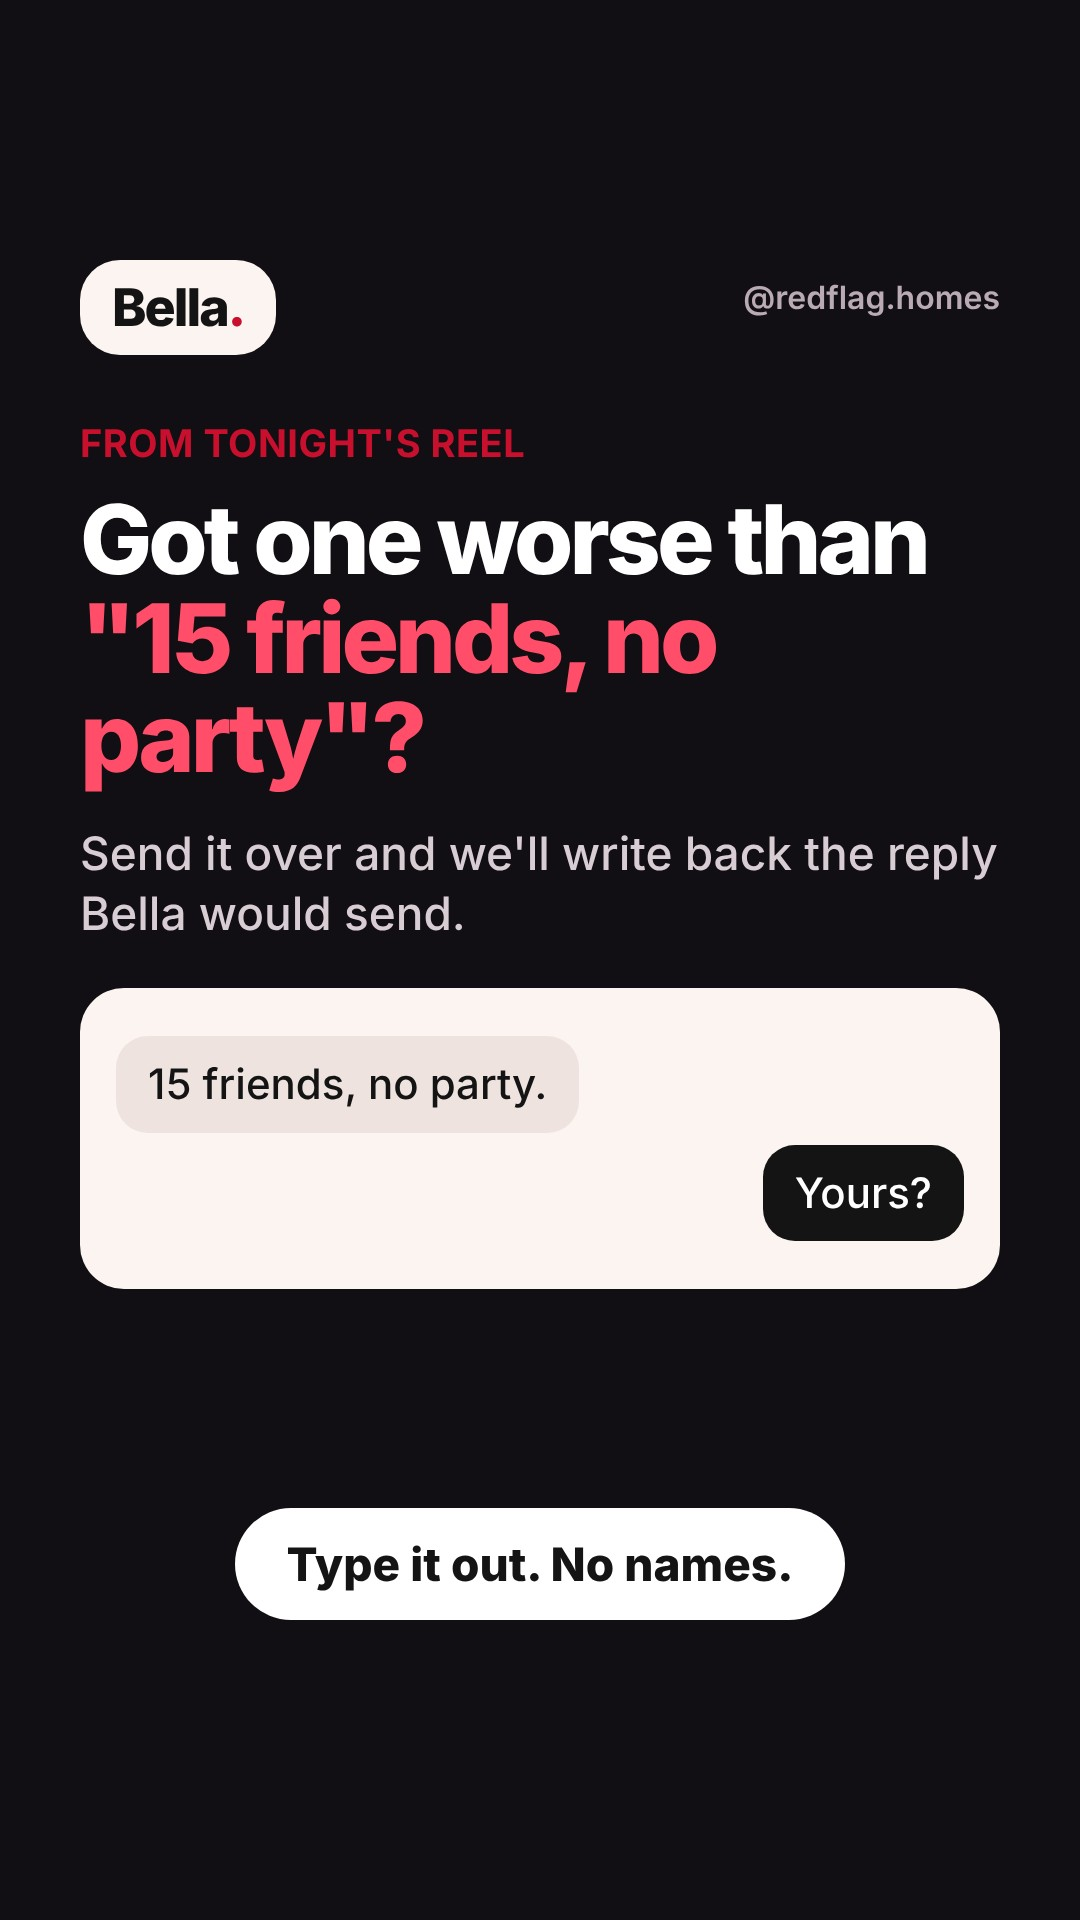
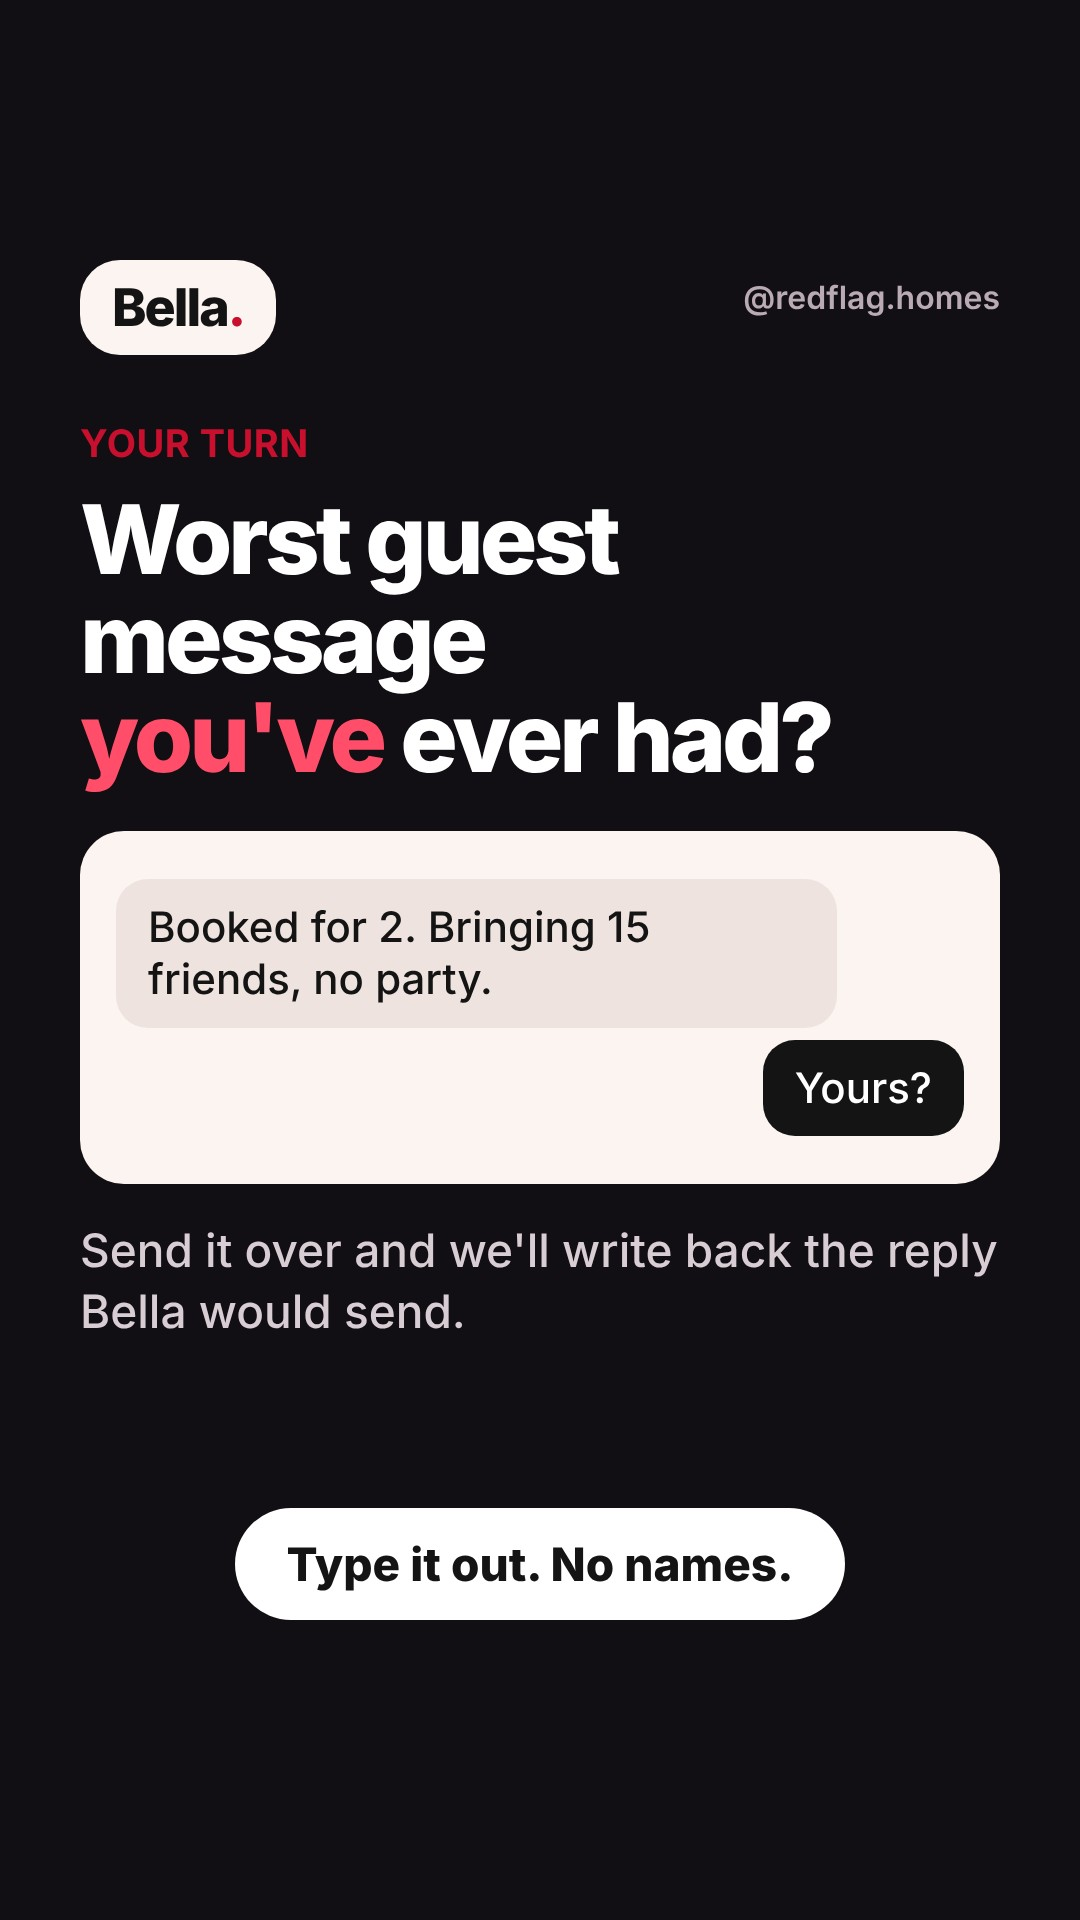
Switch Bella automation to stories only; rework 15 Oct story 3
Claude-Session: https://claude.ai/code/session_01Cw3U7aVfWG16eXRptv1S7z

Changed region(s): [[0.0611, 0.2188, 0.9472, 0.6875]]

diff --git a/marketing/bella/PLAN.md b/marketing/bella/PLAN.md
@@ -39,17 +39,17 @@ Avoid the couple and "red flag" relationship reels from September. They don't re
 
 ## Cadence
 
+**From 15 Oct 2026, the owner asked for stories only.** The automation posts no reels or carousels. Feed posts are made by hand.
+
 | Format | How often | When (IST) |
 |---|---|---|
-| Reel | 1 a day | 7:00–8:00 PM |
 | Stories | 3 a day | about 9 AM, 1:30 PM and 8 PM |
-| Carousel | 2 a week | 12:30 PM |
 
 ## The CTA loop
 
-Every reel and carousel ends with **Comment "BELLA"**. Reply to each comment and send a DM within the day. Stories ask for replies, and replies land in DMs.
+Stories ask for a reply or a DM, and replies land in the inbox. Answer each one within the day; Meta only allows replies within 24 hours. Rotate the three daily stories between relatable, engagement and soft Bella mentions, and keep at least one that asks for a reply.
 
-Check every week: shares and saves per reel, comments that say "BELLA", DM count, and follower growth.
+Check every week: story replies, DMs, "BELLA" comments on the owner's own posts, and follower growth.
 
 ## Production
 

diff --git a/marketing/bella/2026-10-15/README.md b/marketing/bella/2026-10-15/README.md
@@ -1,0 +1,9 @@
+# 15 Oct 2026 (IST)
+
+| Time (IST) | Story | File |
+|---|---|---|
+| 9:20 AM | "Guest messages, decoded" | `story-1-decoded.jpg` |
+| 1:30 PM | "Rate this guest message, 1 to 10" | `story-2-rate.jpg` |
+| 8:00 PM | "Worst guest message you've ever had?" | `story-3-yours.jpg` |
+
+The reel `reel-booked-for-2.mp4` (and its caption) was made but **not posted**. The owner switched to stories only before it went out. It's kept here in case they want to post it by hand.
